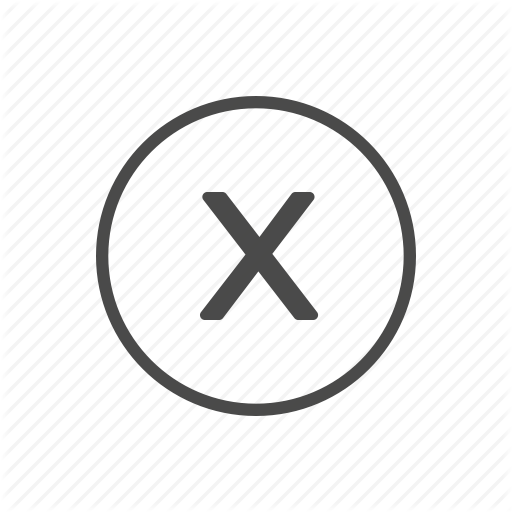
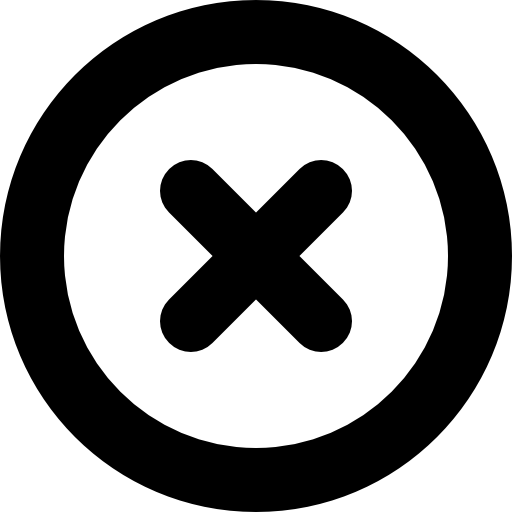
commit

diff --git a/frontend/src/components/HitBoxDetail.js b/frontend/src/components/HitBoxDetail.js
@@ -3,6 +3,7 @@ import React from "react"
 import '../css/HitBoxDetail.css';
 import '../css/CharacterList.css';
 
+import x from '../media/x.png'
 function HitBoxDetail(props) {
   
   if (props.hitboxData === undefined) { return null; }
@@ -10,9 +11,7 @@ function HitBoxDetail(props) {
     console.log("her")
     return (
       <div id="hitboxDetail">
-        <div id="exit" onClick={props.updateHitboxData.bind(this, undefined)}>
-          X
-				</div>
+        <img id="exit" onClick={props.updateHitboxData.bind(this, undefined)} src={x}/>
 
         <p>part: {props.hitboxData.part}                          </p>
         <p>bone: {props.hitboxData.bone}                          </p>

diff --git a/frontend/src/components/CharacterOptions.js b/frontend/src/components/CharacterOptions.js
@@ -2,6 +2,12 @@ import React from "react"
 import Character from './Character'
 import '../css/CharacterList.css';
 
+
+import x from '../media/x.png'
+
+				
+
+
 function CharacterOptions(props) {
 
 	let characterButtonArray = []
@@ -12,9 +18,7 @@ function CharacterOptions(props) {
 		return (
 
 			<div id="characterList">
-				<div id="exit" onClick={props.exit}>
-					X
-				</div>
+				<img id="exit" onClick={props.exit} src={x} />
 				{characterButtonArray}
 			</div>
 		)

diff --git a/frontend/src/css/CharacterList.css b/frontend/src/css/CharacterList.css
@@ -9,4 +9,5 @@
 	left: 0%;
 	top: 0%;
 	cursor: pointer;
+	width: 3%
 }
